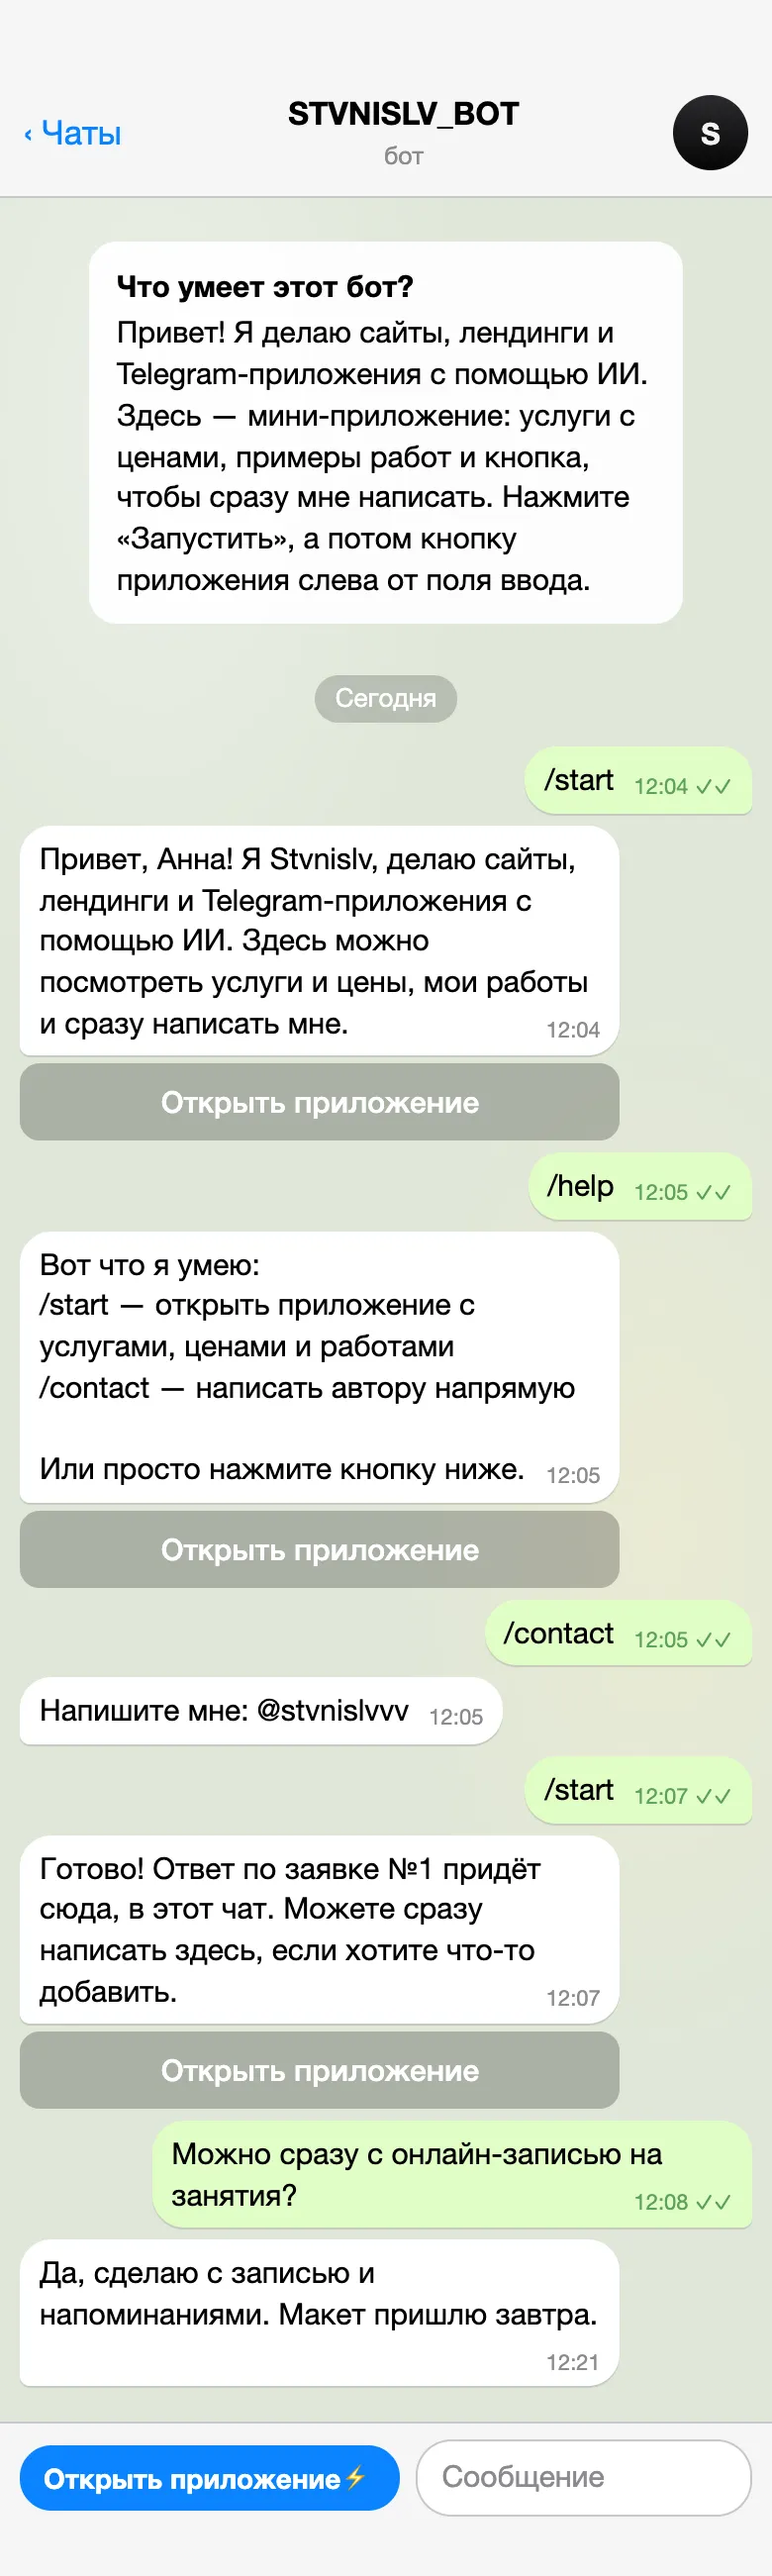
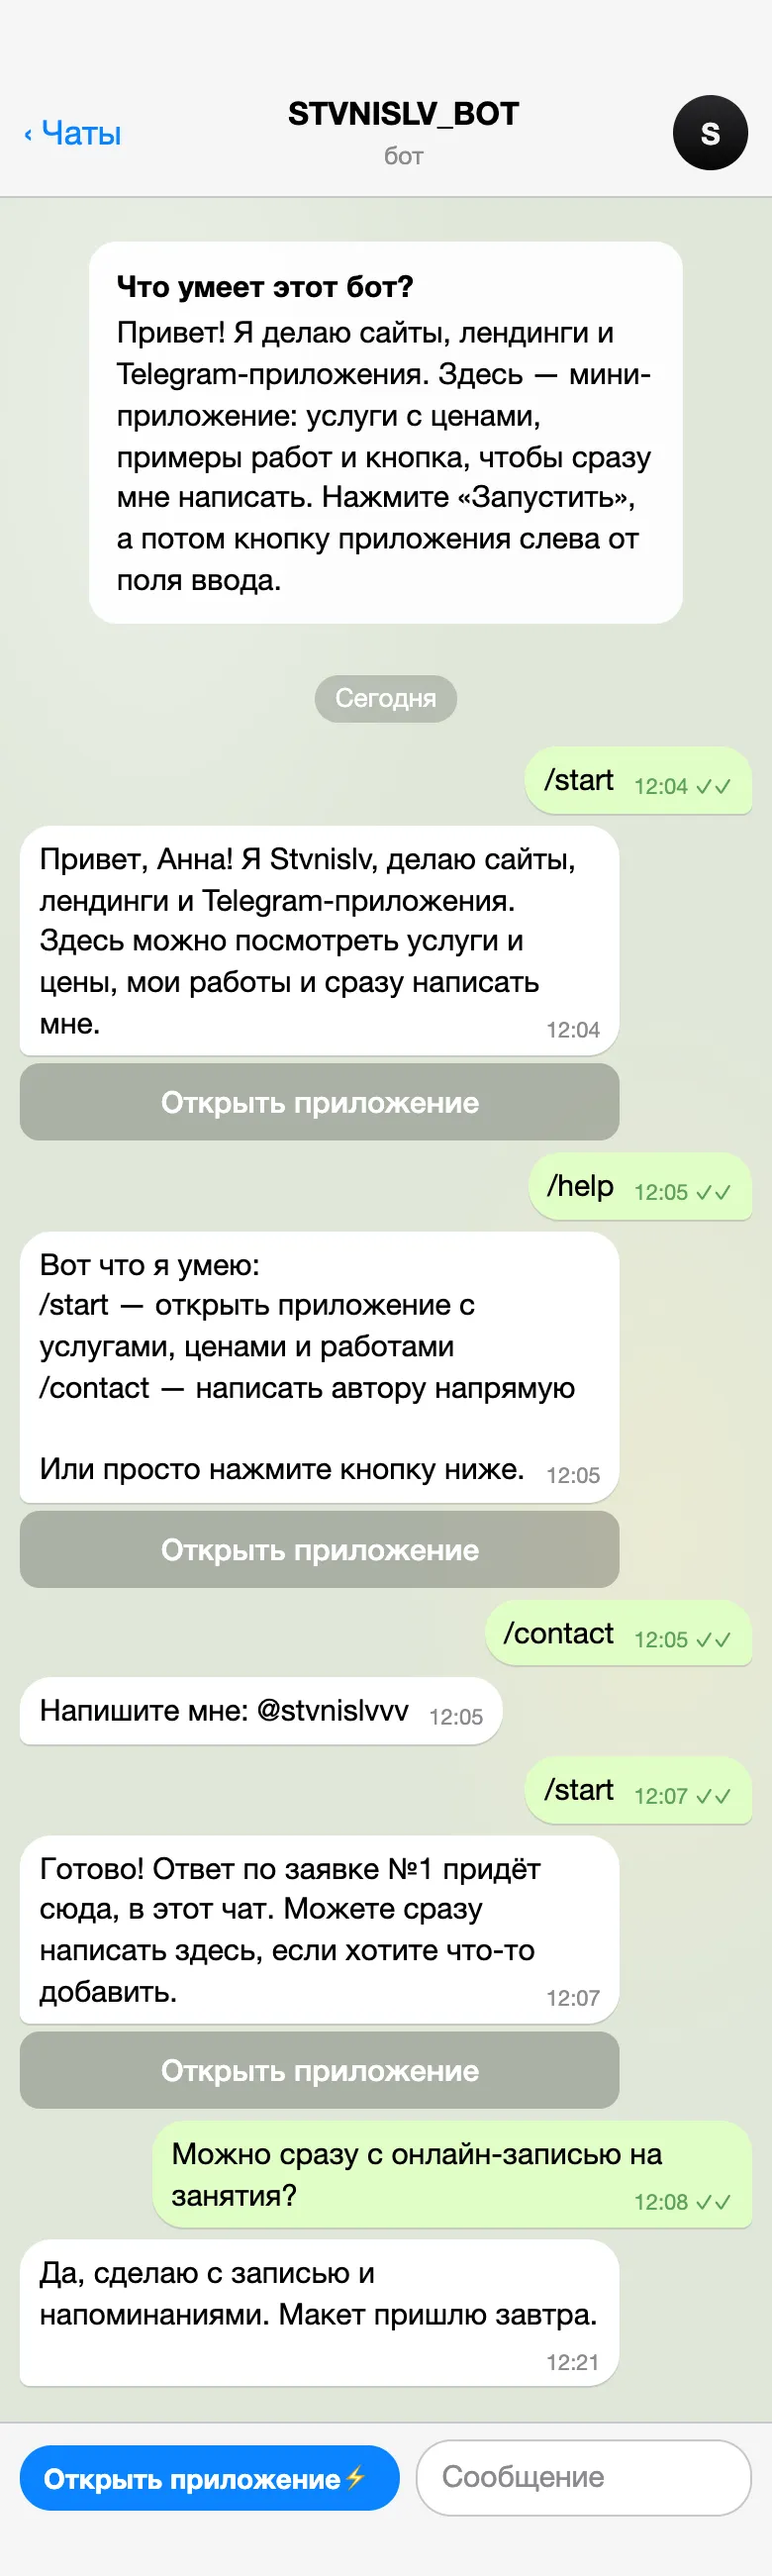
Работы без рамок и одного размера, подсказка на телефоне; новый подзаголовок и шаг 01; тексты бота без «с помощью ИИ»; скриншоты пересняты

diff --git a/index.html b/index.html
@@ -1097,9 +1097,10 @@ body { font-size: var(--step-0); }
 }
 
 /* Работы */
-.works { margin-top: 2.5rem; display: grid; gap: 1rem; }
-.work-feature { padding: 0; overflow: hidden; display: grid; }
-.work-text { padding: 1.75rem; }
+.works { margin-top: 2.5rem; display: grid; gap: 3rem; }
+/* Карточка работы без рамки: окно скриншота одной высоты у всех и текст. */
+.work-feature { display: grid; gap: 1.25rem; }
+.work-text { padding: 0 0.25rem; min-height: 10.75rem; }   /* одна высота у всех карточек на телефоне */
 .work-feature h3 { font-size: var(--step-1); font-weight: 500; letter-spacing: -0.02em; }
 .work-feature .desc { margin-top: 0.5rem; color: var(--muted); max-width: 36ch; line-height: 1.6; }
 /* Миниатюра первого экрана: щель и тёплый треугольник света на тёмном титане. */
@@ -1134,10 +1135,11 @@ body { font-size: var(--step-0); }
   mask-image: linear-gradient(#000, transparent);
   filter: blur(8px);
 }
+.work-preview { border-radius: var(--radius-card); overflow: hidden; }
 @media (min-width: 768px) {
-  .work-feature { grid-template-columns: 1.1fr 1fr; }
+  .work-feature { grid-template-columns: minmax(0, 0.75fr) minmax(0, 1.25fr); gap: 2.25rem; align-items: center; }
   .work-preview { order: 2; min-height: 15rem; }
-  .work-text { padding: 2.25rem; display: flex; flex-direction: column; justify-content: flex-end; }
+  .work-text { padding: 0; min-height: 0; }
 }
 /* Миниатюра «Mini App»: телефон с щелью и светом на экране. */
 .work-preview-app::before {
@@ -1184,47 +1186,64 @@ body { font-size: var(--step-0); }
   background: linear-gradient(180deg, #f2b46c, #d98a3d);
   box-shadow: 0 10px 24px -8px rgba(255, 170, 80, 0.6);
 }
-/* Скриншот работы: окно с картинкой страницы целиком. Наведение (или касание на телефоне) — класс is-scrolling:
-   картинка медленно едет вверх на --shift за --dur (их считает скрипт); без класса — плавно возвращается. */
+/* Скриншот работы: окно одной высоты у всех карточек, тёплый фон, страница — по центру с отступом сверху.
+   Сайт — пошире, Mini App и бот (frame: "phone") — колонкой, как экран телефона.
+   Наведение (или касание на телефоне) — класс is-scrolling: картинка медленно едет вверх на --shift за --dur
+   (их считает скрипт); без класса — плавно возвращается. */
 .work-shot {
   position: relative;
-  min-height: 17rem;
+  height: 21rem;
   overflow: hidden;
-  background: #f3f3f1;
+  border-radius: var(--radius-card);
+  background: radial-gradient(80% 60% at 50% 0%, rgba(255, 196, 120, 0.35), transparent 70%), linear-gradient(#ebe8e3, #dedad3);
 }
 .work-shot img {
   position: absolute;
-  top: 0;
-  left: 0;
+  top: 1.25rem;
+  left: 50%;
   display: block;
-  width: 100%;
+  width: 88%;
   height: auto;
+  margin-left: -44%;
+  border-radius: 0.75rem 0.75rem 0 0;
+  box-shadow: 0 18px 40px -12px rgba(25, 20, 15, 0.35);
   transform: translate3d(0, 0, 0);
   transition: transform 1.4s cubic-bezier(0.22, 1, 0.36, 1);
   will-change: transform;
 }
-.work.is-scrolling .work-shot img {
-  transform: translate3d(0, var(--shift, 0px), 0);
-  transition: transform var(--dur, 8s) cubic-bezier(0.45, 0, 0.55, 1);
-}
-/* Узкий скриншот (Mini App, бот) — колонкой по центру, как экран телефона, на тёплом фоне. */
-.work-shot-phone {
-  background: radial-gradient(80% 60% at 50% 0%, rgba(255, 196, 120, 0.35), transparent 70%), linear-gradient(#ebe8e3, #dedad3);
-}
 .work-shot-phone img {
-  left: 50%;
   width: min(15.5rem, 68%);
   margin-left: calc(min(15.5rem, 68%) / -2);
-  top: 1.25rem;
   border-radius: 1rem 1rem 0 0;
-  box-shadow: 0 0 0 1px rgba(25, 25, 27, 0.08), 0 18px 40px -12px rgba(25, 20, 15, 0.35);
 }
-.work.is-scrolling .work-shot-phone img { transform: translate3d(0, calc(var(--shift, 0px) - 1.25rem), 0); }
-html.night .work-shot { background: #2a2826; }
-html.night .work-shot-phone { background: radial-gradient(80% 60% at 50% 0%, rgba(255, 170, 80, 0.18), transparent 70%), linear-gradient(#2c2a27, #1f1e1c); }
-@media (hover: none) { .work:has(.work-shot) { cursor: pointer; } }
+.work.is-scrolling .work-shot img {
+  transform: translate3d(0, calc(var(--shift, 0px) - 1.25rem), 0);
+  transition: transform var(--dur, 8s) cubic-bezier(0.45, 0, 0.55, 1);
+}
+html.night .work-shot { background: radial-gradient(80% 60% at 50% 0%, rgba(255, 170, 80, 0.18), transparent 70%), linear-gradient(#2c2a27, #1f1e1c); }
+/* Телефон: подсказка внизу скриншота — «Нажмите, чтобы пролистать», потом «Нажмите ещё раз, чтобы открыть». */
+.work-shot::after { content: none; }
+@media (hover: none) {
+  .work:has(.work-shot) { cursor: pointer; }
+  .work-shot[data-hint]::after {
+    content: attr(data-hint);
+    position: absolute;
+    left: 50%;
+    bottom: 0.875rem;
+    translate: -50% 0;
+    padding: 0.375rem 0.875rem;
+    border-radius: 999px;
+    font-size: 0.8125rem;
+    white-space: nowrap;
+    color: #f3f3f1;
+    background: rgba(20, 18, 16, 0.62);
+    -webkit-backdrop-filter: blur(6px);
+    backdrop-filter: blur(6px);
+    pointer-events: none;
+  }
+}
 @media (min-width: 768px) {
-  .work-shot { order: 2; min-height: 19rem; }
+  .work-shot { order: 2; height: 20rem; }
 }
 .work-invite {
   display: flex;
@@ -1713,7 +1732,7 @@ const site = {
 
   hero: {
     title: "Сайты, приложения и ИИ‑агенты",
-    subtitle: "Цифровой мастер для экспертов и небольших компаний",
+    subtitle: "Делаю сайты и Telegram-ботов для экспертов и бизнеса. Цену и срок называю до начала работы",
   },
 
   about: [
@@ -1785,7 +1804,7 @@ const site = {
   ],
 
   steps: [
-    { title: "Пишете в Telegram", text: "Рассказываете задачу своими словами." },
+    { title: "Пишете в Telegram или оставляете заявку", text: "Рассказываете задачу своими словами." },
     { title: "Называю цену и срок", text: "До начала работы, без сюрпризов." },
     { title: "Делаю и показываю", text: "Вы видите черновик и вносите правки." },
     { title: "Сдаю готовое", text: "Помогаю запустить и объясняю, как пользоваться." },
@@ -2055,7 +2074,7 @@ if (!site.payment) {
 // Работы
 const works = document.querySelector("[data-works]");
 for (const work of site.portfolio) {
-  const card = el("li", "card work work-feature glass");
+  const card = el("li", "work work-feature");   // без рамки: окно скриншота и текст рядом
   const text = el("div", "work-text");
   if (!work.image) {
     // Пока нет скриншота — нарисованная миниатюра: щель и свет, телефон или переписка.
@@ -2102,6 +2121,7 @@ for (const work of site.portfolio) {
 // Если в системе включено «уменьшение движения», скриншот стоит на месте.
 {
   const canHover = window.matchMedia("(hover: hover) and (pointer: fine)");
+  const still = window.matchMedia("(prefers-reduced-motion: reduce)");   // «уменьшить движение» — скриншоты стоят
   const cards = [...document.querySelectorAll(".work")].filter((card) => card.querySelector(".work-shot img"));
 
   // Насколько сдвинуть картинку, чтобы показался её низ, и сколько это ехать (~170 px в секунду, от 3 до 14 с).
@@ -2112,16 +2132,24 @@ for (const work of site.portfolio) {
     card.style.setProperty("--shift", `${shift}px`);
     card.style.setProperty("--dur", `${Math.min(14, Math.max(3, -shift / 170)).toFixed(1)}s`);
   }
+  // Подсказка на телефоне (видна только там, где нет наведения — стили .work-shot[data-hint]).
+  const HINT = "Нажмите, чтобы пролистать";
+  const hint = (card, text) => { card.querySelector(".work-shot").dataset.hint = text; };
   const scrollDown = (card) => {
-    if (calm.matches) return;
+    if (still.matches) return;
     measure(card);
     card.classList.add("is-scrolling");
+    hint(card, card.dataset.url ? "Нажмите ещё раз, чтобы открыть" : "Нажмите ещё раз, чтобы вернуться");
   };
-  const scrollUp = (card) => card.classList.remove("is-scrolling");
+  const scrollUp = (card) => {
+    card.classList.remove("is-scrolling");
+    hint(card, still.matches && card.dataset.url ? "Нажмите, чтобы открыть" : HINT);
+  };
 
   for (const card of cards) {
     const img = card.querySelector(".work-shot img");
     if (img.complete) measure(card); else img.addEventListener("load", () => measure(card), { once: true });
+    scrollUp(card);                                   // начальная подсказка
     card.addEventListener("mouseenter", () => canHover.matches && scrollDown(card));
     card.addEventListener("mouseleave", () => canHover.matches && scrollUp(card));
     // С клавиатуры: фокус на ссылке карточки тоже показывает страницу.
@@ -2129,7 +2157,7 @@ for (const work of site.portfolio) {
     card.addEventListener("focusout", () => scrollUp(card));
     card.addEventListener("click", (event) => {
       if (canHover.matches || event.target.closest("a")) return;   // мышь — только наведение; ссылка — открывается сама
-      if (!card.classList.contains("is-scrolling") && !calm.matches) {
+      if (!card.classList.contains("is-scrolling") && !still.matches) {
         cards.forEach((other) => other !== card && scrollUp(other));
         scrollDown(card);
       } else if (card.dataset.url) {

diff --git a/brief.md b/brief.md
@@ -51,7 +51,7 @@
 
 ### Первый экран (внизу слева)
 - Заголовок: **Сайты, приложения и ИИ‑агенты**
-- Подзаголовок: **Цифровой мастер для экспертов и небольших компаний**
+- Подзаголовок: **Делаю сайты и Telegram-ботов для экспертов и бизнеса. Цену и срок называю до начала работы** (заменён 11 ноября 2026)
 - Две кнопки рядом: **Написать в Telegram** и **Оставить заявку** (на узком телефоне — одна под другой).
 - Под кнопками строка контактов: Telegram @stvnislvvv · Instagram @stvnislv · stvnislv@gmail.com.
 - **Форма заявки** — во всплывающем окне поверх сайта (на телефоне — на весь экран): что нужно, бюджет, задача, сроки, имя, способ связи и контакт, согласие. Закрывается крестиком, Esc и нажатием на тёмный фон. Заявка сразу приходит владельцу в Telegram.
@@ -100,12 +100,13 @@
 - **Этот сайт** — «Лендинг-портфолио: светлая и тёмная тема, стекло и живой свет.» Рядом миниатюра первого экрана: щель и тёплый луч на тёмном титане. Срок изготовления на сайте не указываем.
 - **Telegram Mini App** — мини-приложение внутри Telegram, ссылка «Открыть приложение» (https://stvnislv-app.netlify.app/).
 - **Telegram-бот @stvnislv_bot** — открывает мини-приложение, принимает заявки и передаёт переписку; ссылка «Открыть бота» (https://t.me/stvnislv_bot). Обе работы добавлены 11 ноября 2026.
-- У всех работ — скриншоты страницы целиком в светлой теме (`works/site.webp`, `works/miniapp.webp`, `works/bot.webp`). При наведении курсора скриншот медленно прокручивается вниз и возвращается, когда курсор уходит; на телефоне первое касание прокручивает, второе открывает работу. Скриншот бота — реконструкция чата с настоящими текстами бота (снять Telegram из браузера нельзя); заменить настоящим скриншотом с телефона — положить файл в `works/bot.webp`.
+- Карточки работ без рамок, одного размера: окно скриншота одной высоты (тёплый фон, страница по центру) и текст рядом; на телефоне на скриншоте подсказка «Нажмите, чтобы пролистать».
+- У всех работ — скриншоты страницы целиком в светлой теме (`works/site.webp`, `works/miniapp.webp`, `works/bot.webp`). При наведении курсора скриншот медленно прокручивается вниз и возвращается, когда курсор уходит; на телефоне первое касание прокручивает, второе открывает работу. Скриншот бота — реконструкция чата с настоящими текстами бота (без «с помощью ИИ» — убрано из описания бота и ответа на /start 11 ноября 2026) (снять Telegram из браузера нельзя); заменить настоящим скриншотом с телефона — положить файл в `works/bot.webp`.
 - Приглашение: «Следующим здесь может быть ваш проект.» + кнопка **Оставить заявку** (открывает окно заявки).
 - Новые проекты добавляются в `site.portfolio`: название, описание, картинка, ссылка.
 
 ### Как я работаю
-01 **Пишете в Telegram** — Рассказываете задачу своими словами.
+01 **Пишете в Telegram или оставляете заявку** — Рассказываете задачу своими словами.
 02 **Называю цену и срок** — До начала работы, без сюрпризов.
 03 **Делаю и показываю** — Вы видите черновик и вносите правки.
 04 **Сдаю готовое** — Помогаю запустить и объясняю, как пользоваться.
